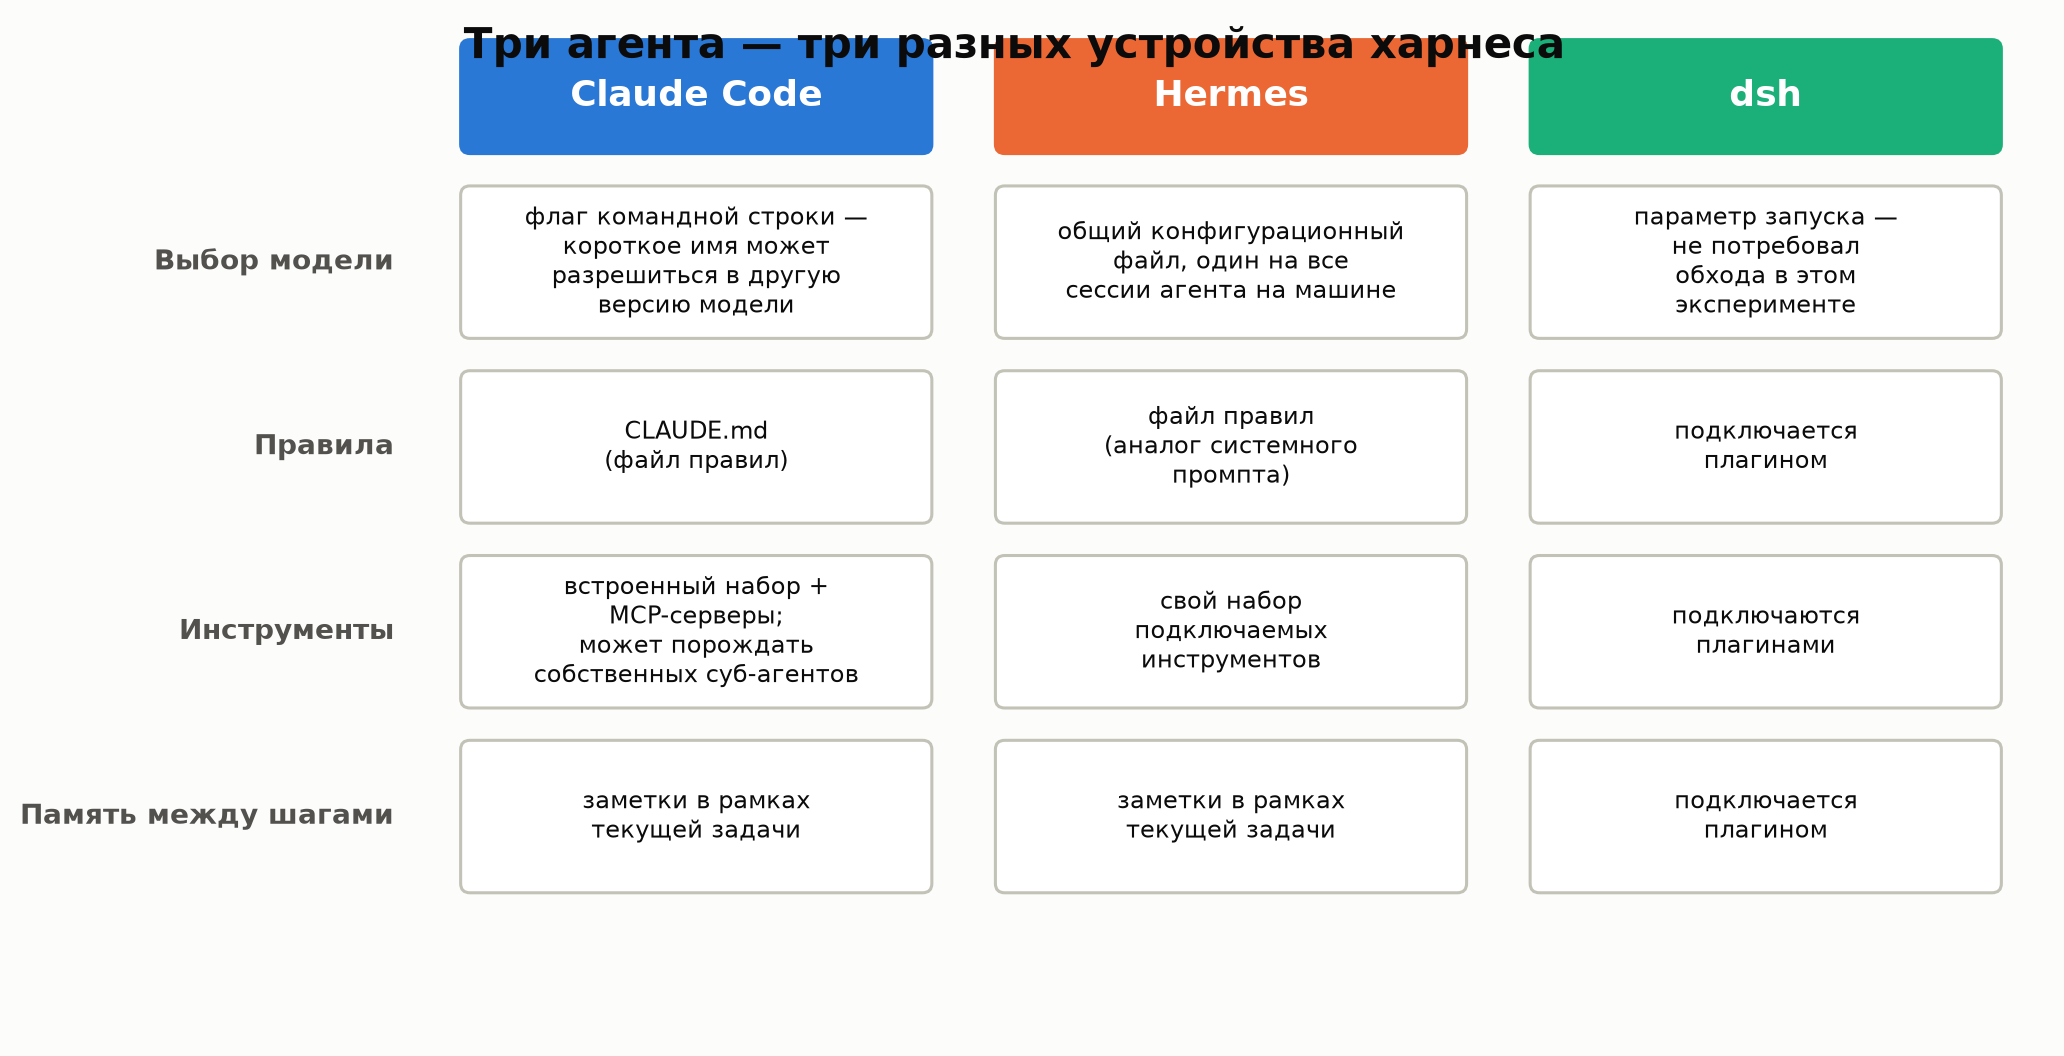
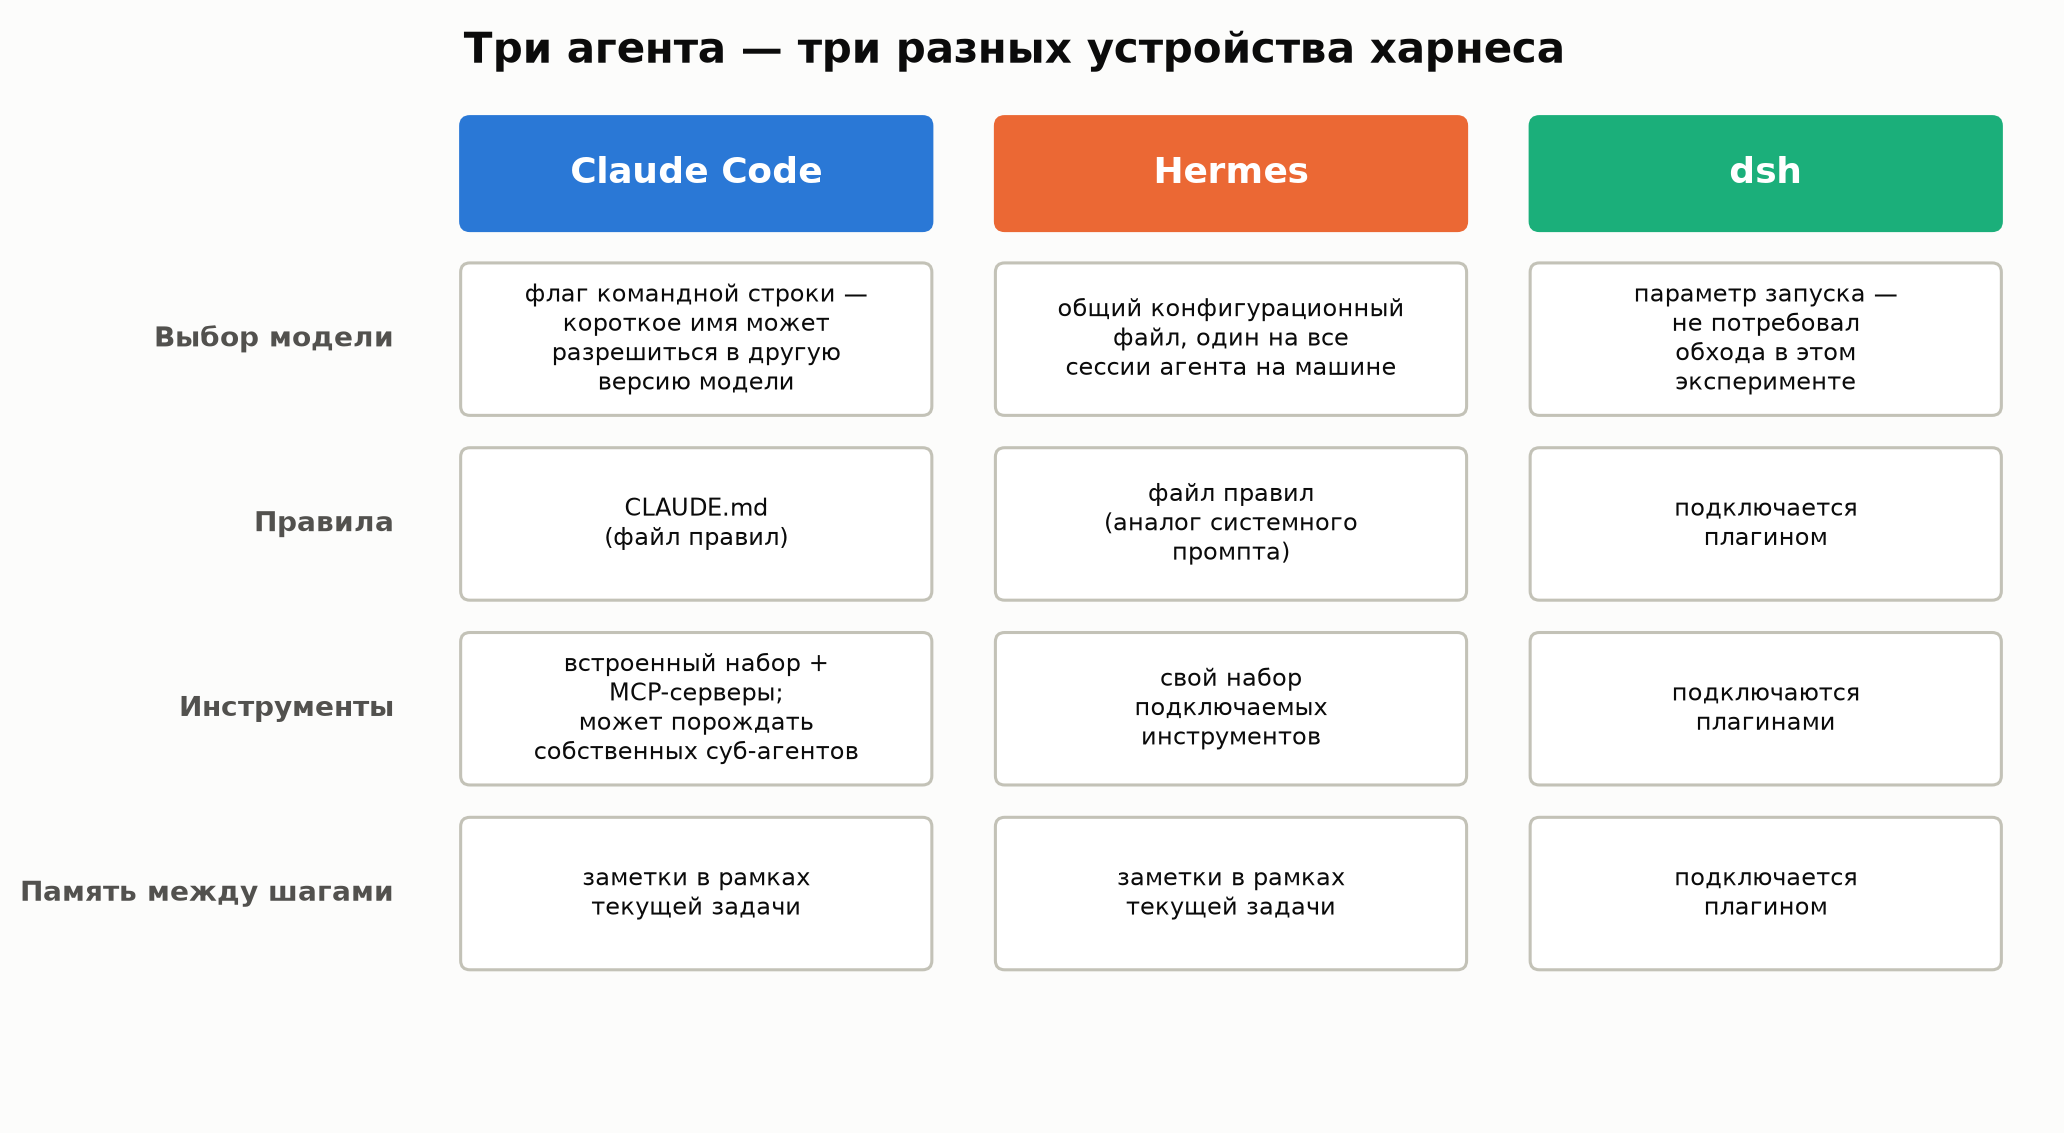
piece(harness-agents-pt1): fix d1 diagram title overlapping the header row

diff --git a/pieces/20261106_harness_agents_pt1/assets/gen_diagrams.py b/pieces/20261106_harness_agents_pt1/assets/gen_diagrams.py
@@ -41,11 +41,11 @@ def arrow(ax, x1, y1, x2, y2, color=MUTED):
 # =====================================================================
 # DIAGRAM D1 — three agents, structurally
 # =====================================================================
-fig, ax = plt.subplots(figsize=(10.5, 6.6), dpi=200)
+fig, ax = plt.subplots(figsize=(10.5, 7.1), dpi=200)
 fig.patch.set_facecolor(SURFACE)
 ax.set_facecolor(SURFACE)
 ax.set_xlim(0, 10.5)
-ax.set_ylim(0, 6.6)
+ax.set_ylim(0, 7.1)
 ax.axis("off")
 
 cols = [("Claude Code", BLUE, 0.3), ("Hermes", ORANGE, 3.75), ("dsh", AQUA, 7.2)]
@@ -83,7 +83,7 @@ for name, color, x in cols:
 for lbl, y in zip(row_labels, row_y):
     ax.text(-0.15, y + row_h / 2, lbl, ha="right", va="center", fontsize=10, color=SEC_INK, fontweight="bold")
 
-ax.text(0.3, 6.35, "Три агента — три разных устройства харнеса", fontsize=15, color=INK, fontweight="bold")
+ax.text(0.3, 6.82, "Три агента — три разных устройства харнеса", fontsize=15, color=INK, fontweight="bold")
 fig.savefig(f"{OUT}/d1_agent_architecture.png", bbox_inches="tight", facecolor=SURFACE)
 plt.close(fig)
 print("wrote d1_agent_architecture")
